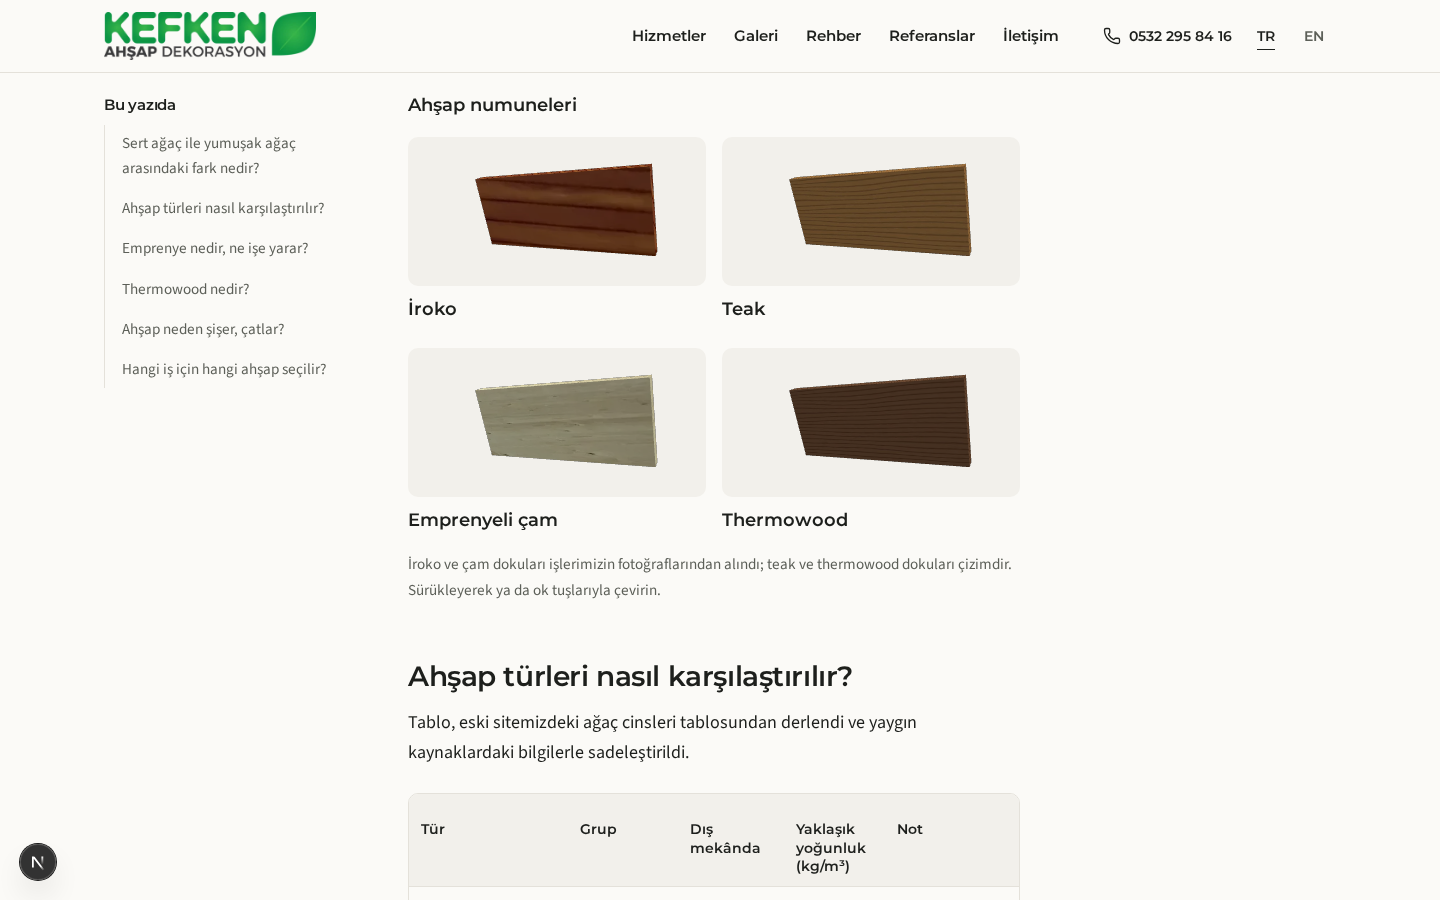
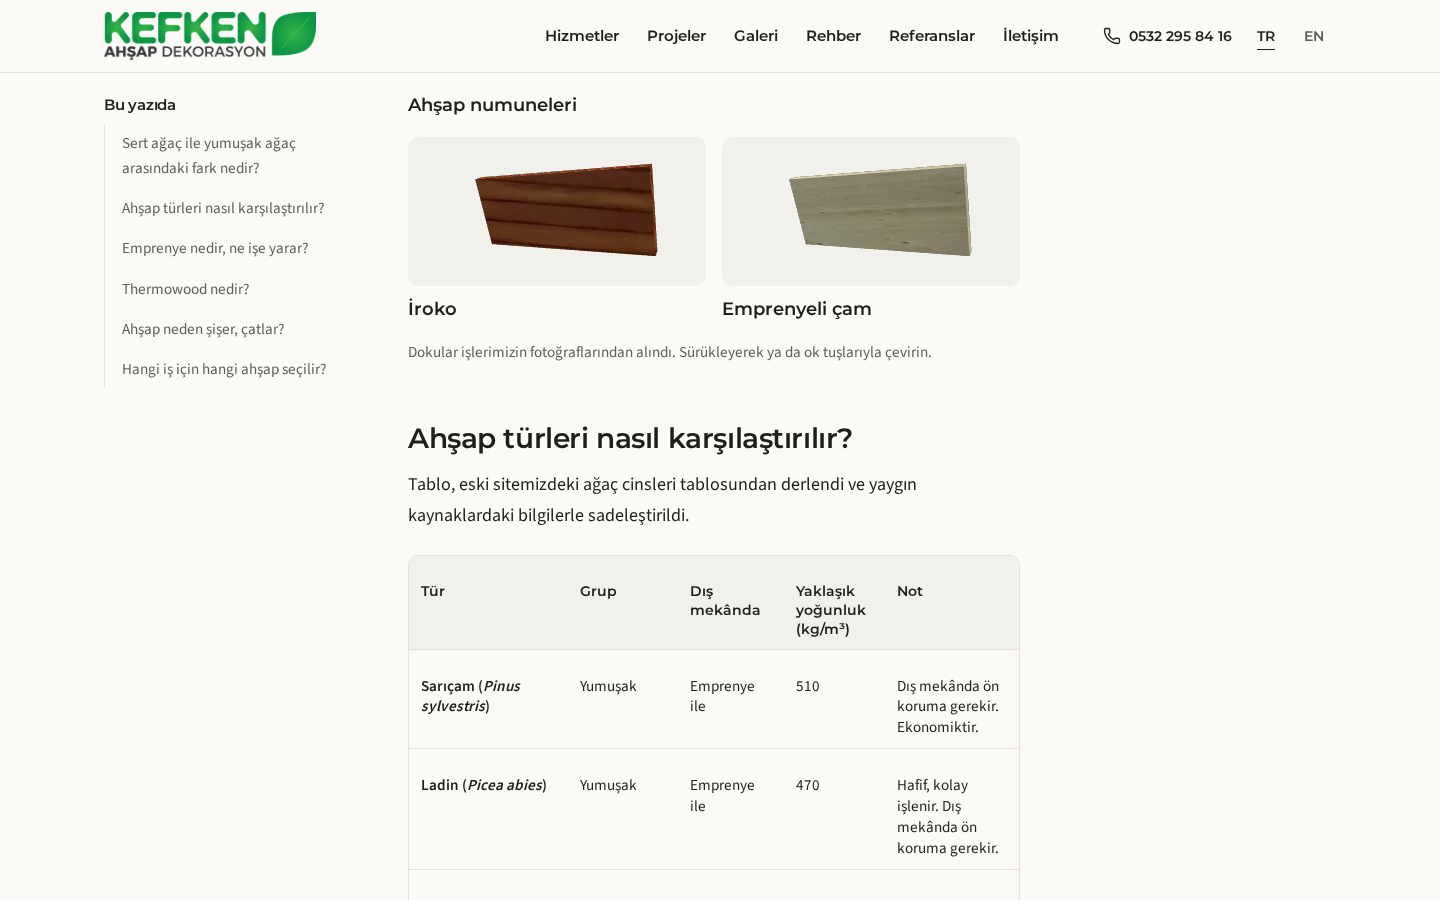
fix(guides): real-photo samples only, island loads only with the block (#60)
Drop the drawn teak/thermowood textures (DESIGN.md: wood is never drawn); the data
model keeps all four species and shows each once a real-photo texture exists. The
samples island sits behind React.lazy and renders only when the body holds the
block, so guides without it don't download it.

diff --git a/tests/e2e/wood-samples.e2e.spec.ts b/tests/e2e/wood-samples.e2e.spec.ts
@@ -44,11 +44,13 @@ const body = {
 }
 // The scene chunk is recognised by its content (chunk names are hashed in production builds).
 const isScene = (js: string) => js.includes('WEBGL_lose_context')
+const isIsland = (js: string) => js.includes('wood-samples-title')
 
 test.describe('wood samples block', () => {
   let api: APIRequestContext
   const stamp = Date.now()
   const slug = `e2e-ahsap-numune-${stamp}`
+  const plain = `e2e-ahsap-numunesiz-${stamp}`
   const ids: number[] = []
 
   test.beforeAll(async () => {
@@ -60,6 +62,19 @@ test.describe('wood samples block', () => {
           title: `E2E Ahşap numuneleri ${stamp}`,
           slug,
           body,
+        })
+      ).id,
+    )
+  })
+  test.beforeAll(async () => {
+    const noBlock = { root: { ...body.root, children: filler } }
+    ids.push(
+      (
+        await createDoc(api, 'guides', {
+          _status: 'published',
+          title: `E2E Numunesiz ${stamp}`,
+          slug: plain,
+          body: noBlock,
         })
       ).id,
     )
@@ -78,8 +93,10 @@ test.describe('wood samples block', () => {
       .toBe(200)
     const figure = page.locator('figure', { hasText: 'Ahşap numuneleri' })
     // Static first: four labelled photos, server-rendered.
-    await expect(figure.locator('img[src^="/wood/"]')).toHaveCount(4)
-    for (const name of ['İroko', 'Teak', 'Emprenyeli çam', 'Thermowood'])
+    await expect(figure.locator('img[src^="/wood/"]')).toHaveCount(2)
+    // Only species with a real-photo texture (no drawn wood, DESIGN.md).
+    await expect(figure.getByText('Teak', { exact: true })).toHaveCount(0)
+    for (const name of ['İroko', 'Emprenyeli çam'])
       await expect(figure.getByText(name, { exact: true })).toBeVisible()
     return { figure, scripts }
   }
@@ -93,7 +110,7 @@ test.describe('wood samples block', () => {
     const plank = figure.getByRole('img', { name: /^İroko\. Sürükleyerek/ })
     await expect(plank).toBeVisible({ timeout: 15_000 })
     await expect.poll(() => scripts.some(isScene)).toBe(true)
-    await expect(figure.locator('canvas')).toHaveCount(4)
+    await expect(figure.locator('canvas')).toHaveCount(2)
 
     const before = await plank.screenshot()
     await plank.focus()
@@ -110,6 +127,22 @@ test.describe('wood samples block', () => {
     await page.waitForTimeout(1500)
     await expect(figure.locator('canvas')).toHaveCount(0)
     await expect(figure.locator('[tabindex="0"]')).toHaveCount(0)
+    expect(scripts.some(isScene)).toBe(false)
+  })
+
+  test('a guide without the block loads none of the samples code', async ({ page }) => {
+    const scripts: string[] = []
+    page.on('response', async (r) => {
+      if (r.request().resourceType() === 'script') scripts.push(await r.text().catch(() => ''))
+    })
+    await expect
+      .poll(async () => (await page.goto(`/tr/rehber/${plain}`))?.status(), { timeout: 20_000 })
+      .toBe(200)
+    await page.waitForLoadState('networkidle')
+    await page.mouse.wheel(0, 20_000)
+    await page.waitForTimeout(1000)
+    expect(scripts.length).toBeGreaterThan(0)
+    expect(scripts.some(isIsland)).toBe(false)
     expect(scripts.some(isScene)).toBe(false)
   })
 })

diff --git a/scripts/wood-textures.ts b/scripts/wood-textures.ts
@@ -1,6 +1,6 @@
 // #60: textures for the 3D wood samples → public/wood/*.webp (committed; rerun only to change them).
 // Iroko and pine are crops of real library photos (clear of the watermark, rotated so the boards run along the plank).
-// The library has no teak or thermowood photo, so those two are procedural wood, labelled as such on the page.
+// No drawn wood (DESIGN.md): teak and thermowood get a texture only once a real close-up photo exists; add a crop here.
 // Run: bun scripts/wood-textures.ts   (MEDIA_BASE defaults to the local S3 bucket)
 import { mkdir } from 'node:fs/promises'
 
@@ -54,48 +54,7 @@ async function crop(c: Crop) {
     .resize(W, H)
 }
 
-// Value noise (deterministic hash) for the procedural grain.
-const hash = (x: number, y: number) => {
-  const s = Math.sin(x * 127.1 + y * 311.7) * 43758.5453
-  return s - Math.floor(s)
-}
-const noise = (x: number, y: number) => {
-  const xi = Math.floor(x)
-  const yi = Math.floor(y)
-  const xf = x - xi
-  const yf = y - yi
-  const u = xf * xf * (3 - 2 * xf)
-  const v = yf * yf * (3 - 2 * yf)
-  const a = hash(xi, yi) + (hash(xi + 1, yi) - hash(xi, yi)) * u
-  const b = hash(xi, yi + 1) + (hash(xi + 1, yi + 1) - hash(xi, yi + 1)) * u
-  return a + (b - a) * v
-}
-
-/** Flat-sawn grain running along x: wavy growth rings between a light and a dark tone. */
-function procedural(
-  light: [number, number, number],
-  dark: [number, number, number],
-  rings: number,
-) {
-  const px = Buffer.alloc(W * H * 3)
-  for (let y = 0; y < H; y++)
-    for (let x = 0; x < W; x++) {
-      const warp = noise(x / 160, y / 40) * 1.1 + noise(x / 30, y / 8) * 0.12
-      const t = (y / H) * rings + warp
-      const ring = Math.pow(Math.abs(Math.sin(t * Math.PI)), 12)
-      const fleck = noise(x / 4, y / 1.2) * 0.18
-      const k = Math.min(1, ring * 0.55 + fleck)
-      for (let c = 0; c < 3; c++)
-        px[(y * W + x) * 3 + c] = Math.round(light[c]! + (dark[c]! - light[c]!) * k)
-    }
-  return sharp(px, { raw: { width: W, height: H, channels: 3 } })
-}
-
 await mkdir(out, { recursive: true })
 await (await crop(crops.iroko!)).webp({ quality: 80 }).toFile(`${out}/iroko.webp`)
 await (await crop(crops.cam!)).webp({ quality: 80 }).toFile(`${out}/cam.webp`)
-await procedural([176, 128, 72], [112, 76, 40], 16).webp({ quality: 80 }).toFile(`${out}/teak.webp`)
-await procedural([122, 84, 58], [72, 46, 30], 18)
-  .webp({ quality: 80 })
-  .toFile(`${out}/thermowood.webp`)
 console.log('wrote', out)

diff --git a/src/app/(frontend)/[locale]/rehber/[slug]/page.tsx b/src/app/(frontend)/[locale]/rehber/[slug]/page.tsx
@@ -4,7 +4,7 @@ import { getFormatter, getTranslations, setRequestLocale } from 'next-intl/serve
 import { notFound } from 'next/navigation'
 
 import { GuideBody } from '@/components/guides/GuideBody'
-import { WoodSamplesView } from '@/components/guides/WoodSamplesView'
+import WoodSamples from '@/components/guides/WoodSamples'
 import { JsonLd } from '@/components/seo/JsonLd'
 import { buttonClass } from '@/components/ui/button'
 import { Container } from '@/components/ui/Container'
@@ -16,7 +16,7 @@ import { getSiteSettings } from '@/lib/data/site'
 import { metaDescription } from '@/lib/guides/meta'
 import { tableOfContents } from '@/lib/guides/toc'
 import { siteUrl } from '@/lib/seo/alternates'
-import { WOOD_SAMPLES, type WoodKey } from '@/lib/wood/samples'
+import { hasWoodSamples } from '@/lib/wood/samples'
 import { articleJsonLd, breadcrumbJsonLd, faqJsonLd } from '@/lib/seo/jsonld'
 import { pageMetadata } from '@/lib/seo/page-metadata'
 
@@ -42,10 +42,9 @@ export default async function GuidePage({ params }: Props) {
   const found = await getGuide(locale, slug)
   if (!found) notFound()
   const { guide, categories } = found
-  const [t, tCta, tWood, format, settings, published] = await Promise.all([
+  const [t, tCta, format, settings, published] = await Promise.all([
     getTranslations('Guides'),
     getTranslations('Cta'),
-    getTranslations('WoodSamples'),
     getFormatter(),
     getSiteSettings(locale),
     getGuides(locale),
@@ -138,18 +137,7 @@ export default async function GuidePage({ params }: Props) {
                 idOf={toc.idOf}
                 tableLabel={t('table')}
                 publishedHrefs={new Set(published.map((g) => g.href))}
-                woodSamples={
-                  <WoodSamplesView
-                    labels={{
-                      title: tWood('title'),
-                      hint: tWood('hint'),
-                      note: tWood('note'),
-                      names: Object.fromEntries(
-                        WOOD_SAMPLES.map((s) => [s.key, tWood(`names.${s.key}`)]),
-                      ) as Record<WoodKey, string>,
-                    }}
-                  />
-                }
+                woodSamples={hasWoodSamples(body) && <WoodSamples />}
               />
             )}
 

diff --git a/src/lib/wood/samples.ts b/src/lib/wood/samples.ts
@@ -1,11 +1,28 @@
-/** The four species of the 3D samples (PLAN §6 F2). Teak and thermowood have no library photo, so their texture is procedural. */
-export const WOOD_SAMPLES = [
-  { key: 'iroko', texture: '/wood/iroko.webp', procedural: false },
-  { key: 'teak', texture: '/wood/teak.webp', procedural: true },
-  { key: 'cam', texture: '/wood/cam.webp', procedural: false },
-  { key: 'thermowood', texture: '/wood/thermowood.webp', procedural: true },
-] as const
+/**
+ * The four species of the 3D samples (PLAN §6 F2). DESIGN.md: wood is never drawn, so a species shows only once it has a
+ * crop from a real job photo (scripts/wood-textures.ts). Teak and thermowood wait for owner photos (docs/content/CHECKLIST.md).
+ */
+export const WOOD_SAMPLES: readonly {
+  key: 'iroko' | 'teak' | 'cam' | 'thermowood'
+  texture: string | null
+}[] = [
+  { key: 'iroko', texture: '/wood/iroko.webp' },
+  { key: 'teak', texture: null },
+  { key: 'cam', texture: '/wood/cam.webp' },
+  { key: 'thermowood', texture: null },
+]
 export type WoodKey = (typeof WOOD_SAMPLES)[number]['key']
+
+/** Species that have a real-photo texture, in display order. */
+export const shownSamples = () =>
+  WOOD_SAMPLES.filter((s): s is { key: WoodKey; texture: string } => s.texture !== null)
+
+type LexNode = { type?: string; fields?: { blockType?: string }; children?: LexNode[] }
+const hasBlock = (n: LexNode): boolean =>
+  (n.type === 'block' && n.fields?.blockType === 'woodSamples') || (n.children ?? []).some(hasBlock)
+/** Whether a Lexical body holds the woodSamples block: the page loads the samples component only then. */
+export const hasWoodSamples = (body: { root?: LexNode } | null | undefined) =>
+  Boolean(body?.root && hasBlock(body.root))
 
 /** PLAN §9: the WebGL view loads only with WebGL, no reduced-motion, no Save-Data and not on a low-memory device. */
 export const can3d = (env: {

diff --git a/src/lib/wood/samples.test.ts b/src/lib/wood/samples.test.ts
@@ -1,15 +1,46 @@
 import { describe, expect, it } from 'vitest'
 
-import { can3d, keyRotation, MAX_TILT, rotate, WOOD_SAMPLES } from './samples'
+import {
+  can3d,
+  hasWoodSamples,
+  keyRotation,
+  MAX_TILT,
+  rotate,
+  shownSamples,
+  WOOD_SAMPLES,
+} from './samples'
 
 describe('WOOD_SAMPLES', () => {
-  it('has the four species of PLAN §6 F2, each with a texture; only the photo-less ones are procedural', () => {
+  it('lists the four species of PLAN §6 F2; only real-photo textures are shown (no drawn wood, DESIGN.md)', () => {
     expect(WOOD_SAMPLES.map((s) => s.key)).toEqual(['iroko', 'teak', 'cam', 'thermowood'])
-    expect(WOOD_SAMPLES.filter((s) => s.procedural).map((s) => s.key)).toEqual([
-      'teak',
-      'thermowood',
+    expect(shownSamples().map((s) => [s.key, s.texture])).toEqual([
+      ['iroko', '/wood/iroko.webp'],
+      ['cam', '/wood/cam.webp'],
     ])
-    for (const s of WOOD_SAMPLES) expect(s.texture).toBe(`/wood/${s.key}.webp`)
+  })
+})
+
+describe('hasWoodSamples', () => {
+  const block = (blockType: string) => ({ type: 'block', fields: { blockType } })
+  const doc = (...children: object[]) => ({ root: { type: 'root', children } })
+  it('is true only when the body holds a woodSamples block, at any depth', () => {
+    expect(hasWoodSamples(doc({ type: 'paragraph', children: [] }, block('woodSamples')))).toBe(
+      true,
+    )
+    expect(
+      hasWoodSamples(
+        doc({ type: 'list', children: [{ type: 'listitem', children: [block('woodSamples')] }] }),
+      ),
+    ).toBe(true)
+    expect(
+      hasWoodSamples(
+        doc(block('other'), {
+          type: 'paragraph',
+          children: [{ type: 'text', text: 'woodSamples' }],
+        }),
+      ),
+    ).toBe(false)
+    expect(hasWoodSamples(null)).toBe(false)
   })
 })
 

diff --git a/src/components/guides/WoodSamplesLazy.tsx b/src/components/guides/WoodSamplesLazy.tsx
@@ -1,0 +1,18 @@
+'use client'
+
+import { type ComponentProps, lazy, Suspense } from 'react'
+
+import type { WoodSamplesView } from './WoodSamplesView'
+
+// Client-side split point. Next ships every client component a page imports in that page's chunks (even through a
+// server-side next/dynamic), so the island sits behind React.lazy here: only guides that render the block fetch it.
+// React.lazy rather than next/dynamic, whose loader runtime alone would add ~2.4 KB to every guide.
+const View = lazy(() => import('./WoodSamplesView').then((m) => ({ default: m.WoodSamplesView })))
+
+export function WoodSamplesLazy(props: ComponentProps<typeof WoodSamplesView>) {
+  return (
+    <Suspense>
+      <View {...props} />
+    </Suspense>
+  )
+}

diff --git a/src/components/guides/WoodSamples.tsx b/src/components/guides/WoodSamples.tsx
@@ -1,0 +1,17 @@
+import { getTranslations } from 'next-intl/server'
+
+import { shownSamples, type WoodKey } from '@/lib/wood/samples'
+
+import { WoodSamplesLazy } from './WoodSamplesLazy'
+
+/**
+ * Server wrapper for the samples block, rendered only when a guide body holds it. The island behind WoodSamplesLazy
+ * then ships only with those guides.
+ */
+export default async function WoodSamples() {
+  const t = await getTranslations('WoodSamples')
+  const names = Object.fromEntries(
+    shownSamples().map((s) => [s.key, t(`names.${s.key}`)]),
+  ) as Record<WoodKey, string>
+  return <WoodSamplesLazy labels={{ title: t('title'), hint: t('hint'), note: t('note'), names }} />
+}

diff --git a/src/components/guides/WoodSamplesView.tsx b/src/components/guides/WoodSamplesView.tsx
@@ -2,7 +2,7 @@
 
 import { useEffect, useRef, useState } from 'react'
 
-import { can3d, keyRotation, rotate, WOOD_SAMPLES, type WoodKey } from '@/lib/wood/samples'
+import { can3d, keyRotation, rotate, shownSamples, type WoodKey } from '@/lib/wood/samples'
 
 import type { WoodScene } from './wood-scene'
 
@@ -58,7 +58,7 @@ export function WoodSamplesView({ labels }: { labels: Labels }) {
         {labels.title}
       </figcaption>
       <ul className="mt-4! grid list-none! grid-cols-2 gap-x-4 gap-y-6 ps-0!">
-        {WOOD_SAMPLES.map((s) => (
+        {shownSamples().map((s) => (
           <Sample
             key={s.key}
             src={s.texture}

diff --git a/docs/content/CHECKLIST.md b/docs/content/CHECKLIST.md
@@ -95,6 +95,7 @@ Genel bilgi ya da fotoğraf etiketlerinden çıkarım. Yanlışsa düzeltilmeli 
   - "Garaj ve Garaj Kapıları" ile "Dış Cephe Ahşap Kaplama" Pergola'ya gidiyor.
 
   Metinlerde cephe kaplaması Ahşap Yapılar'a, bahçe kapıları Kapı, Dolap ve Seperatör ile Korkuluk ve Çit'e yazıldı. Garaj kapısı hiçbir metinde yok. Garaj kapısı yapılıyor mu?
+- **Teak ve thermowood için yakın çekim fotoğraf (#60):** rehberdeki "Ahşap numuneleri" bloğu şimdilik yalnızca iroko ve emprenyeli çamı gösteriyor, çünkü arşivde teak ya da thermowood fotoğrafı yok ve ahşap çizilmiyor (DESIGN.md). Her biri için filigransız, düz bir yüzeye yakından çekilmiş bir fotoğraf gönderilirse doku `scripts/wood-textures.ts` ile kırpılır, `src/lib/wood/samples.ts` içinde yolu girilir ve numune sayfada görünür; başka değişiklik gerekmez.
 
 ## Rehberler (#49)
 
